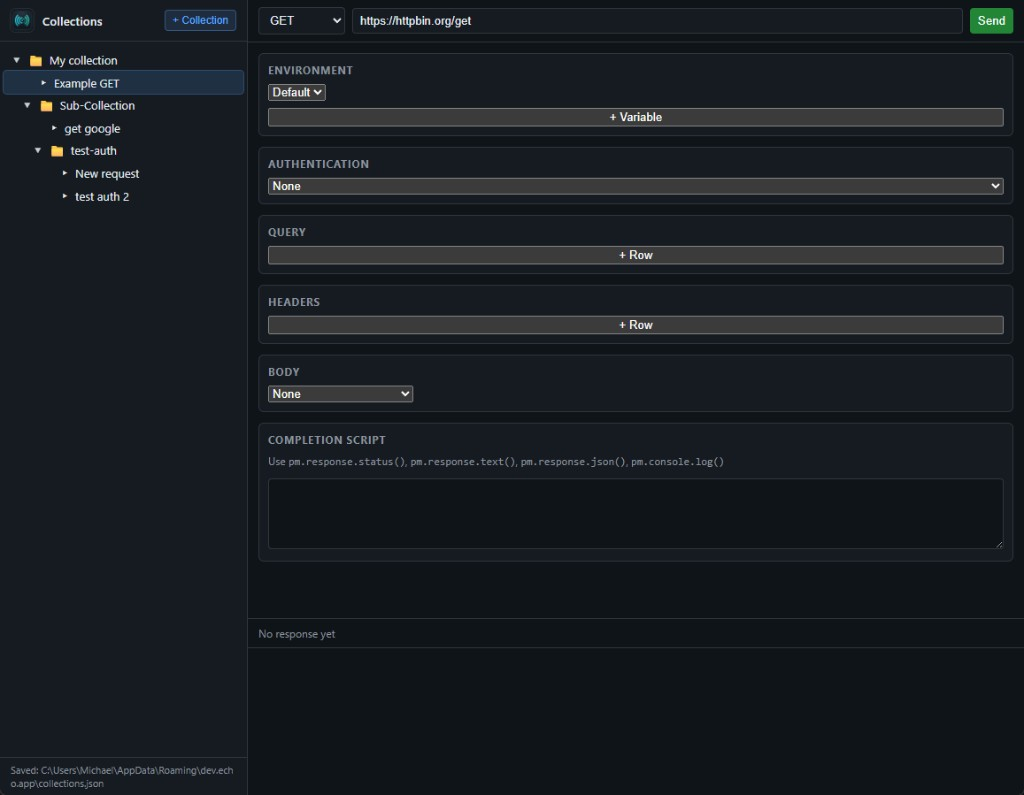
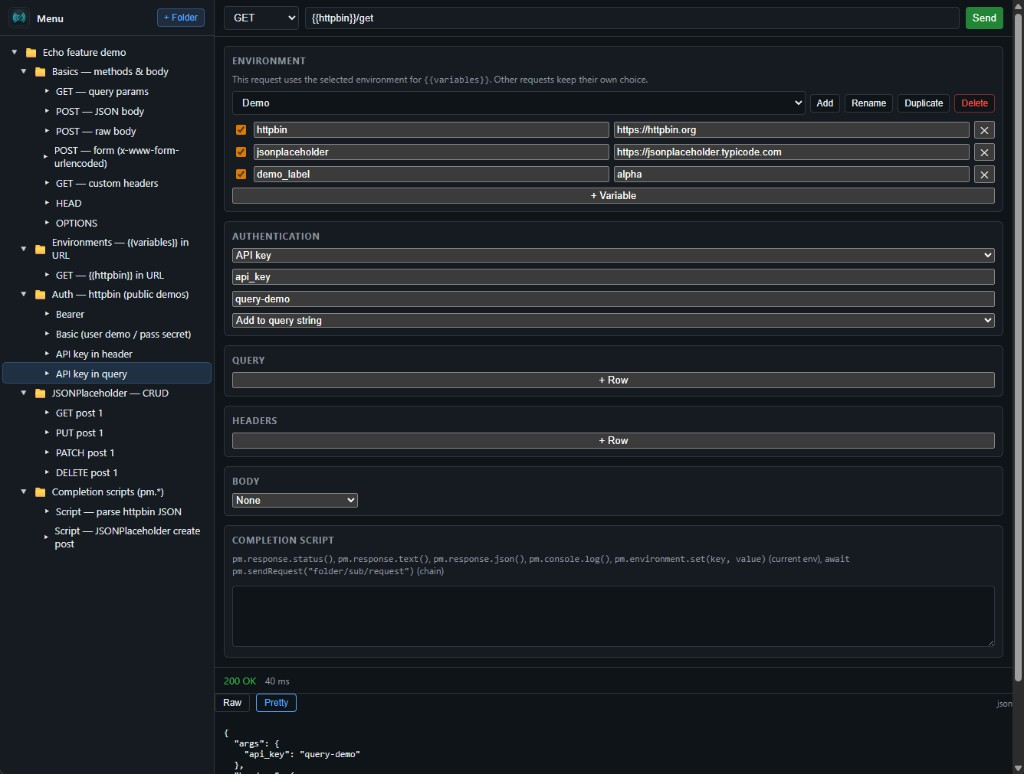
docs: design system guide, AGENTS emphasis, README screenshot
Add docs/design.md (theme, tokens, layout, typography, spacing).
Point agents to design.md and App.css from AGENTS.md; extend directory map.
Replace docs/screenshot-main.png for README hero; refresh alt text.

Made-with: Cursor

diff --git a/docs/design.md b/docs/design.md
@@ -1,0 +1,95 @@
+# Echo — visual design system
+
+This document describes the **intended look and feel** of the Echo UI: theme, colors, typography, spacing, and layout. It is the reference for **new screens and components**. The **source of truth for implementation** is `src/App.css` (CSS variables and class names); if this doc and the stylesheet disagree, **update both** when you change tokens or patterns.
+
+---
+
+## 1. Theme concept
+
+- **Role:** Echo is a **desktop API client** (Postman-class): one window, dense information, minimal chrome. The UI should feel **calm, readable, and tool-like**—closer to a code editor or GitHub’s dark UI than to a marketing site.
+- **Mode:** **Dark only** (`color-scheme: dark` on `:root`). There is no light theme in scope; do not add ad hoc light backgrounds.
+- **Density:** **Compact but not cramped**: enough padding to separate sections, tight enough to show URL, env, auth, body, script, and response without wasted space.
+- **Hierarchy:** **Structure through elevation and borders**, not heavy shadows. Primary content sits on `--bg`; panels and inputs step up to `--bg-elevated` with `--border` dividers.
+
+---
+
+## 2. Color system
+
+Colors are centralized on **` :root`** in `src/App.css`. **Prefer these variables** for any new UI; avoid hard-coded hex except where the file already uses a fixed accent (e.g. primary green buttons).
+
+| Token | Typical use | Hex (current) |
+|-------|-------------|----------------|
+| `--bg` | App background, main canvas, response area base | `#0f1419` |
+| `--bg-elevated` | Sidebar, cards, inputs, section panels, modals | `#161b22` |
+| `--border` | 1px dividers, input outlines | `#30363d` |
+| `--text` | Primary labels and values | `#e6edf3` |
+| `--muted` | Secondary labels, hints, meta (timing, section chrome) | `#8b949e` |
+| `--accent` | Links, focus rings, sidebar “+ Folder”-style actions, tree selection emphasis | `#58a6ff` |
+| `--danger` | Errors, destructive actions, validation (e.g. invalid name) | `#f85149` |
+| `--success` | Success status, positive inline actions (e.g. tree inline confirm ✓) | `#3fb950` |
+
+**Semantic usage (patterns):**
+
+- **Primary action (Send, confirm):** filled **green** `#238636` with white text—used for `.toolbar button.primary` and equivalent “do it” actions. This is **not** the same as `--success`; green buttons are the main “execute” affordance.
+- **Selection / navigation:** **Blue** tints derived from `--accent` (e.g. `rgba(88, 166, 255, 0.12–0.35)` for backgrounds, active tree row).
+- **Destructive:** text and borders use `--danger`; hover may use a light red wash (`rgba(248, 81, 73, 0.15)`).
+- **Tree / icons:** folder glyphs use the existing emoji/icon treatment in the tree; do not introduce a second accent palette for folders unless migrating the whole tree.
+
+---
+
+## 3. Layout
+
+- **Shell:** `app-shell` is a **two-column grid**: fixed **280px** sidebar + flexible main (`grid-template-columns: 280px 1fr`), full viewport height.
+- **Sidebar:** brand row, **+ Folder**, scrollable tree, optional path hint at bottom. **Border-right** separates from main.
+- **Main:** vertical stack—**toolbar** (method, URL, Send), scrollable **request panel** (sections), **response panel** (min height ~200px, max ~45vh) with top border.
+- **Sections:** `.section` uses **6px** corner radius, **10px** padding, **1px** border, `--bg-elevated` fill. Section titles are **uppercase**, **12px**, **muted**, with letter-spacing—see `.section h3`.
+
+---
+
+## 4. Shapes and radii
+
+- **Default radius:** **4px** for inputs, buttons, tree rows, toolbar controls.
+- **Larger radius:** **6px** for section containers, context menus, dialogs, toasts (8px on some overlays).
+- **Borders:** typically **1px solid `var(--border)`**; focus states may use **1px `var(--accent)`** outline with small offset on tree rows.
+
+---
+
+## 5. Typography
+
+- **UI (default):** system stack — `"Segoe UI", system-ui, -apple-system, sans-serif` at **13px** base on `:root`.
+- **Section labels:** **12px**, uppercase, **muted** (see `.section h3`).
+- **Monospace:** `ui-monospace, SFMono-Regular, Menlo, monospace` at **12px** for response body, raw JSON, body editor, scripts—**do not** use monospace for general labels or buttons.
+
+---
+
+## 6. Spacing and rhythm
+
+- **Toolbar:** `8px 12px` padding, **8px** gap between controls.
+- **Request panel:** **12px** padding, **12px** gap between sections (flex column).
+- **Tree:** **8px 4px** outer padding; row padding **4px 8px**; **6px** gap between chevron/icon and label.
+- **Form rows:** grids like `.kv-row` use **6px** gaps; inputs often **6px 8px** vertical padding inside fields.
+
+Keep new layouts **aligned to these multiples** (4 / 6 / 8 / 12) unless there is a strong reason to break rhythm.
+
+---
+
+## 7. Components (consistency rules)
+
+- **Inputs and selects:** `--bg` or `--bg-elevated` fill, `--border`, **4px** radius, inherited text color.
+- **Secondary buttons:** bordered, `--bg`-ish fill, hover **light white overlay** (`rgba(255,255,255,0.06)`).
+- **Context menus:** fixed position, `--bg-elevated`, **6px** radius, soft shadow; items **4px** radius, full width.
+- **Inline tree editor** (`TreeInlineNameRow`): same input styling as the rest of the app; confirm control uses **success**-tinted green on hover; colon errors use **`.tree-inline-colon-err`** (`--danger`, small type).
+
+---
+
+## 8. Screenshots and marketing
+
+- **README hero screenshot:** `docs/screenshot-main.png`. Update when the **default layout** meaningfully changes (so contributors and users see current UI). Prefer **PNG**, reasonable width (README uses a fixed display width).
+
+---
+
+## 9. For contributors and agents
+
+- **Extend** `src/App.css` with new classes; **reuse** `:root` tokens before adding new colors.
+- **Document** new global tokens or layout rules **here** and in **`AGENTS.md`** when behavior or structure of the design system changes.
+- **Avoid** introducing a second accent color family or a separate spacing scale without updating this file and the variables in `App.css`.

diff --git a/AGENTS.md b/AGENTS.md
@@ -10,6 +10,7 @@
 - **License:** MIT — see **`LICENSE`** at repo root (`package.json` and `src-tauri/Cargo.toml` declare `MIT`).
 - **Security:** **`SECURITY.md`** — vulnerability reporting and notes on dependency advisories constrained by upstream (e.g. Tauri’s Linux `glib` stack).
 - **Purpose:** Desktop **API client** (Postman-style): HTTP requests, collections tree, environments and `{{variables}}`, auth, response panel, optional completion scripts (`pm.*` shim). **Not** a trading or market app.
+- **Visual design:** Dark, compact, tool-like UI. **Canonical spec:** **`docs/design.md`**. **Implementation:** `src/App.css` (`:root` CSS variables and shared classes). Agents must **reuse existing tokens** (`--bg`, `--accent`, `--danger`, etc.) for new UI; extend `App.css` consistently. Update **`docs/design.md`** and this file when you add or change global design rules.
 - **Stack:** **Tauri 2** native shell, **Rust** backend (`src-tauri/`) for IPC commands, persistence, and HTTP via **reqwest**; **React 19** + **TypeScript** + **Vite** frontend (`src/`). Plain `npm run dev` runs the web UI only (localStorage + `fetch` fallbacks in `src/api.ts`); **`npm run tauri dev`** is the full desktop app.
 
 ---
@@ -70,7 +71,7 @@ src-tauri/                # Rust crate + Tauri config (required layout for CLI)
   windows/                # NSIS `installerHooks` (.nsh) for the Windows `.exe` bundle
 test/e2e/                 # Playwright (smoke / UI against dev server)
 scripts/                  # make-icon.mjs, crop-logo-to-square.py, compose-social-preview.py, run-compose-social.mjs, requirements-images.txt, bump-version.mjs, inject-updater-endpoint.mjs
-docs/                     # usage.md, architecture.md, contributors.md, logo-source.png, github-social-preview.png (generated), github-social-preview-template.png (optional ref export from compose script)
+docs/                     # design.md (visual system), usage.md, architecture.md, contributors.md, screenshot-main.png (README hero), logo-source.png, github-social-preview.png (generated), github-social-preview-template.png (optional ref export from compose script)
 .github/workflows/        # ci.yml, codeql.yml, release.yml, version-bump.yml
 .github/ISSUE_TEMPLATE/     # bug_report.yml, feature_request.yml, config.yml (GitHub issue forms)
 .github/pull_request_template.md  # default PR body scaffold
@@ -80,6 +81,12 @@ CONTRIBUTING.md             # entry point → docs/contributors.md, security, Co
 ```
 
 **Imports:** ESM (`"type": "module"`). No `@/` path alias unless added to `tsconfig` / Vite—prefer relative imports matching existing files.
+
+### 4b. Visual design system (UI)
+
+- **Authoritative doc:** **`docs/design.md`** — theme intent, color tokens, typography, spacing, layout (sidebar width, sections), and component patterns.
+- **Code:** **`src/App.css`** defines `:root` variables and most layout/component styles; new surfaces should **use those variables** rather than one-off colors.
+- **Maintenance:** Changes that alter the **global palette, spacing scale, or shell layout** must update **`docs/design.md`** and **§1 (Visual design)** above in the **same PR**.
 
 ---
 
@@ -182,6 +189,6 @@ Use this to classify changes in **this** app:
 
 ## 9. Meta
 
-- **Single onboarding file:** New agents should read **this file first**, then `README.md` / `docs/usage.md`, then targeted source files.
+- **Single onboarding file:** New agents should read **this file first**, then `README.md` / `docs/usage.md`, **`docs/design.md`** if touching UI, then targeted source files.
 - **Cursor:** `.cursor/rules/agents-md-first.mdc` (`alwaysApply: true`) instructs reading this file before substantive work and commands. `.cursor/rules/ship-it.mdc` defines the **ship it** flow: **SemVer classification** (§5b), branch from `main`, push, `gh pr create` (body includes recommended bump), watch checks, fix failures.
 - **Stale content:** If this file drifts from the repo, update it—stale `AGENTS.md` is a bug.

diff --git a/README.md b/README.md
@@ -13,7 +13,7 @@
 **Echo** is a free, cross-platform **desktop app for exploring and testing HTTP APIs**—send requests, organize them in collections, switch environments, and inspect responses. It is a lightweight alternative to tools like Postman or Insomnia, with a dark, focused UI.
 
 <p align="center">
-  <img src="docs/screenshot-main.png" alt="Echo: collections sidebar, request editor (GET to httpbin), environment, auth, query, headers, body, completion script, and response area" width="920" />
+  <img src="docs/screenshot-main.png" alt="Echo: dark UI with collections tree, GET request and URL with variables, environment table, authentication, query, headers, body, completion script, and 200 response with Raw or Pretty body" width="920" />
 </p>
 
 ## Download
